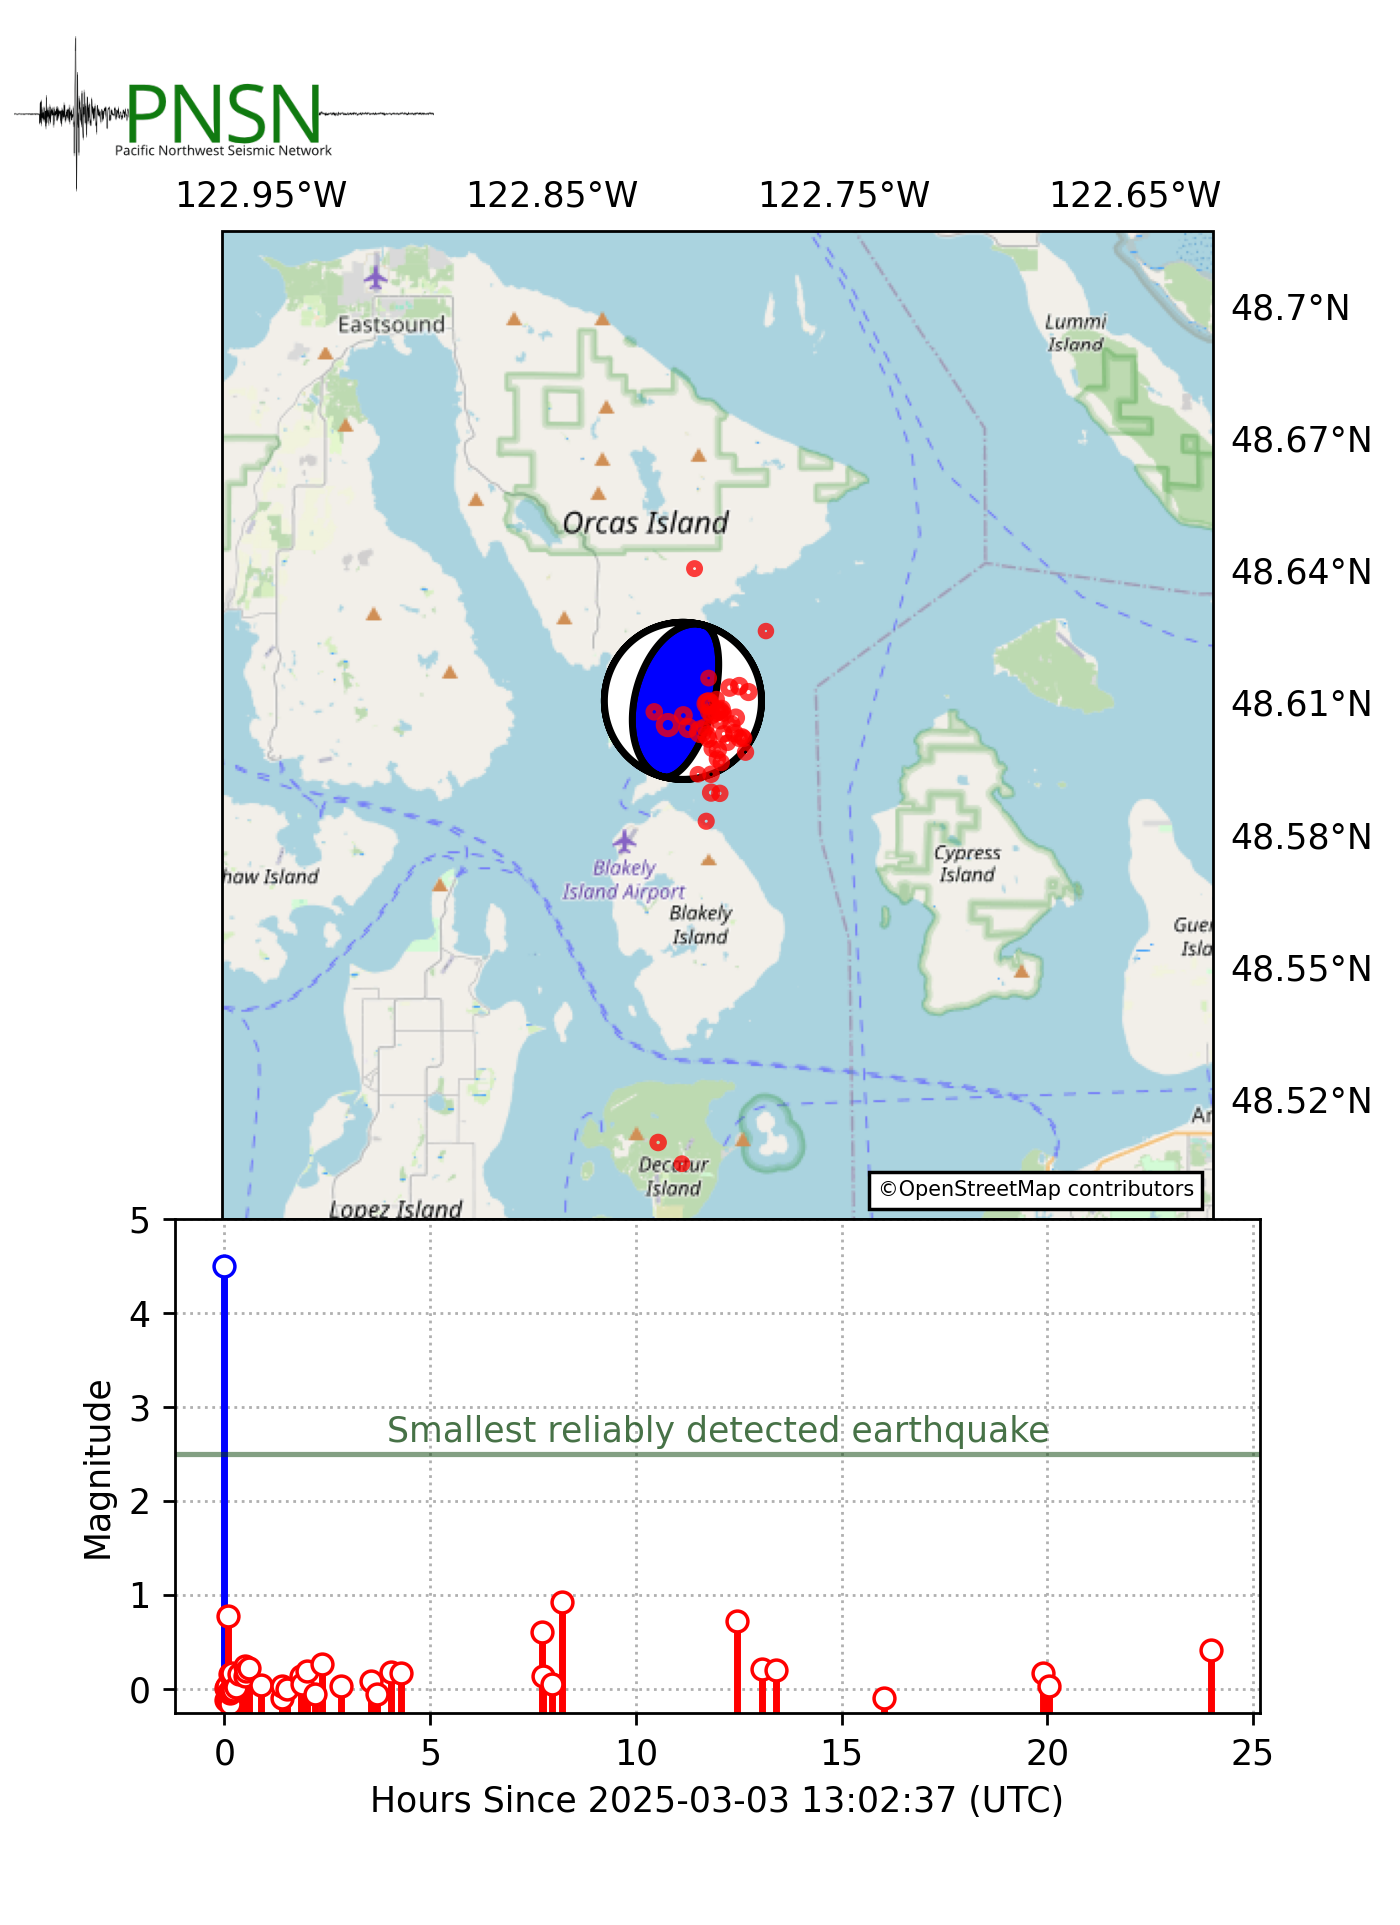
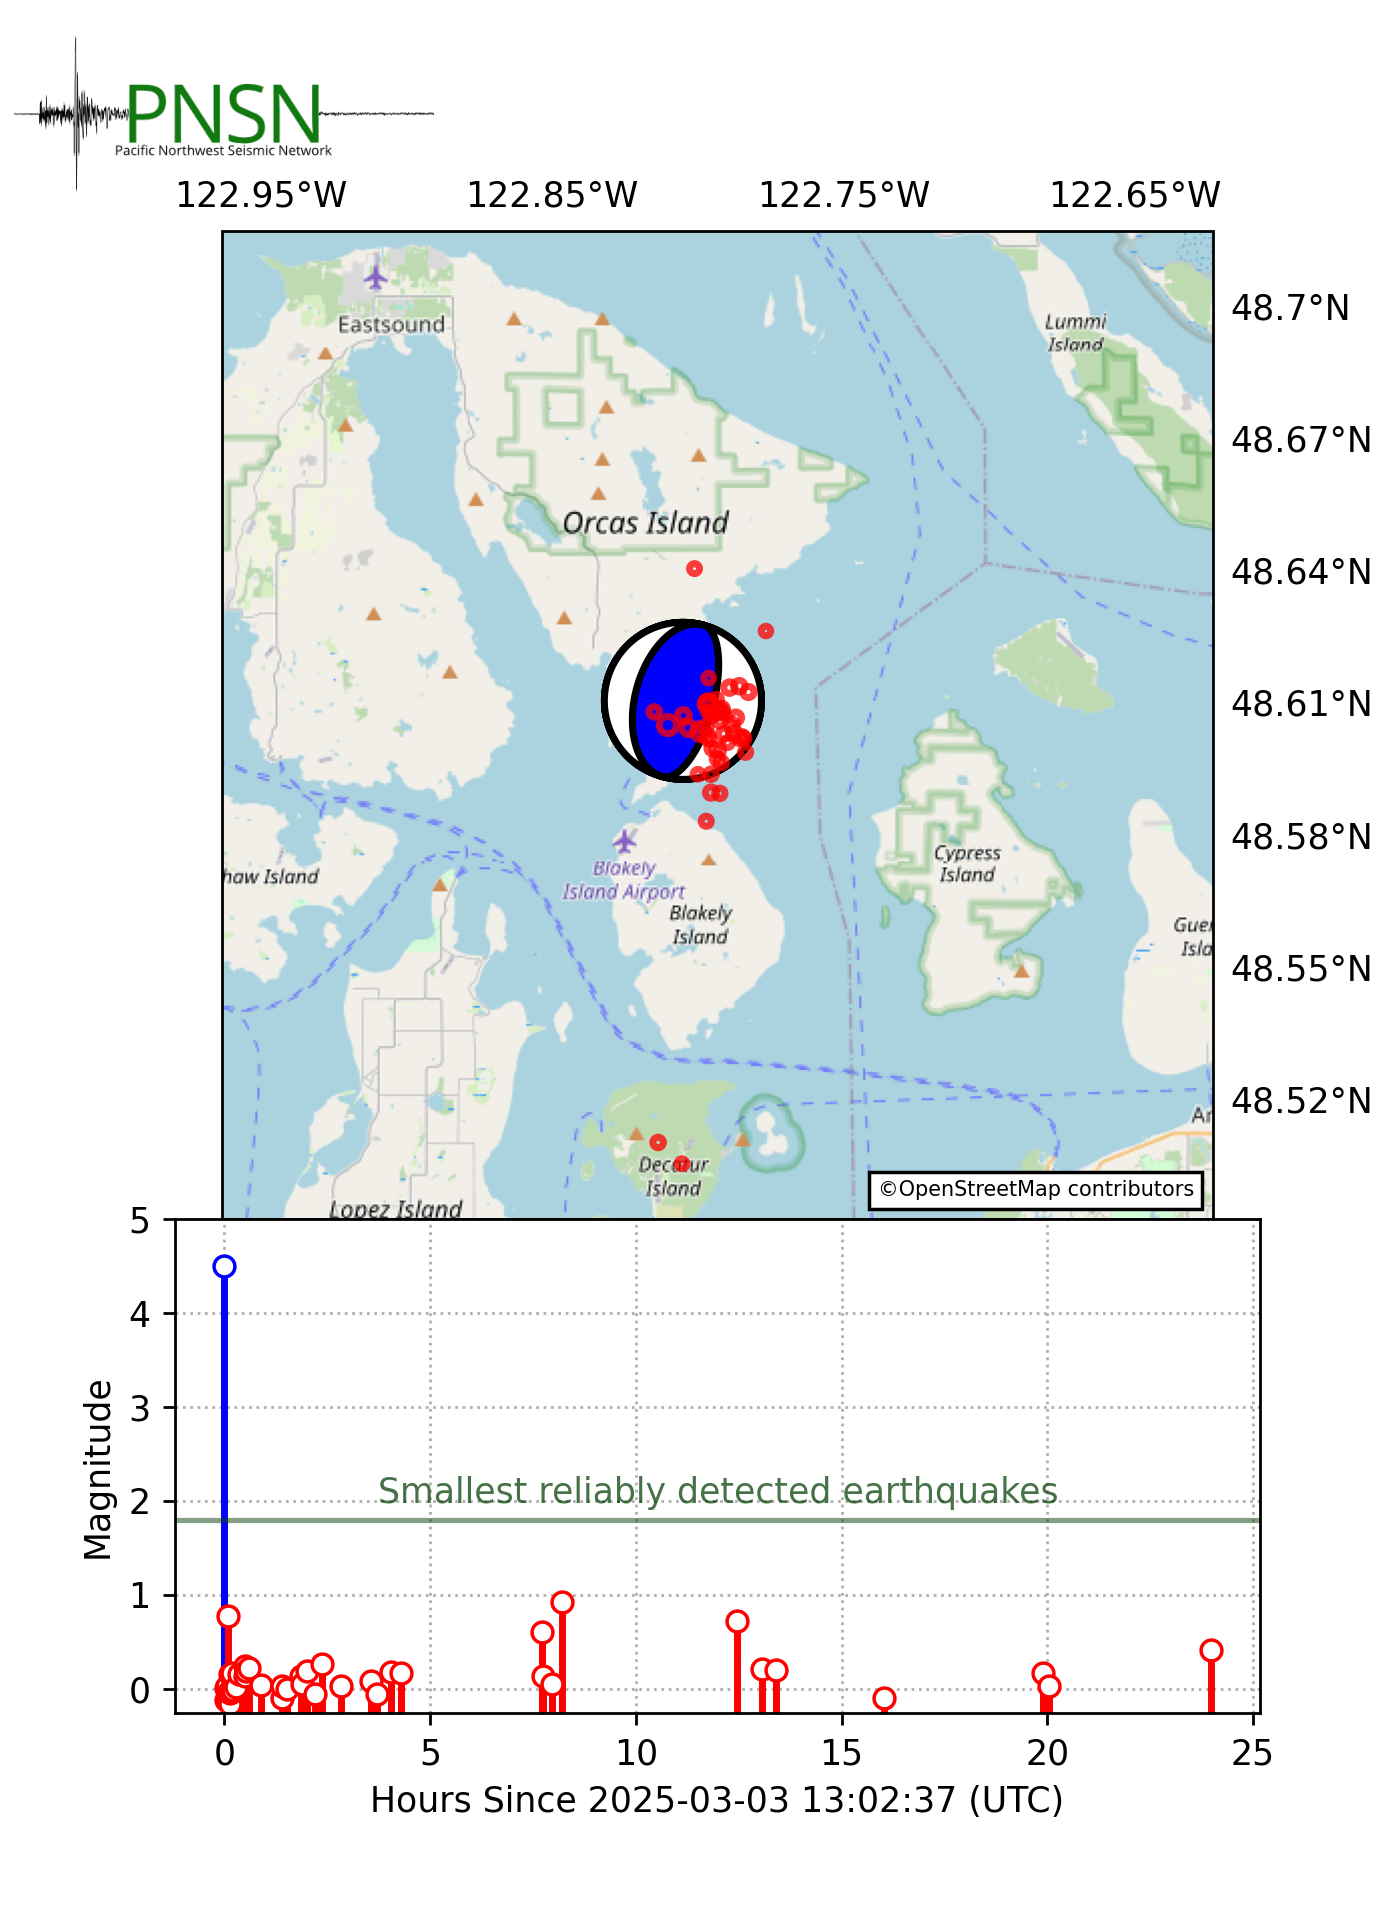
Update figure

Changed region(s): [[0.2457, 0.7169, 0.7679, 0.8104]]

diff --git a/src/plot_aftershocks.py b/src/plot_aftershocks.py
@@ -4,11 +4,10 @@
 :email: ntsteven@uw.edu
 :org: Pacific Northwest Seismic Network
 :license: GNU GPLv3
-:purpose: This script generates Figure 3 in the PNSN Seismo Blog post about
-    the M4.5 earthquake at Orcas Island on March 3rd 2025. It uses a CSV of
-    event metadata exported from Jiggle for event location, origin time, 
-    and magnitude values. The nodal plane orientation for the M4.5 earthquake
-    was manually entered.
+:purpose: This script generates the primary figure on the README.md page
+    of this repository. It uses a CSV of event metadata exported from 
+    Jiggle for event location, origin time,  and magnitude values. 
+    The nodal plane orientation for the M4.5 earthquake was manually entered.
 
     The map uses OpenStreetMap imagery for its basemap, which requires the
     included attribution to meet their terms of use. 
@@ -54,6 +53,7 @@ UTM10N = ccrs.UTM(zone=10, southern_hemisphere=False)
 WGS84 = ccrs.PlateCarree()
 ZOOM = 11
 RAD_KM = 12.5
+MIN_MAG = 1.8
 
 def get_distances(df):
     df = df.sort_values('MAG', ascending=False)
@@ -171,8 +171,8 @@ axts.set_ylabel('Magnitude')
 
 # Add completeness magnitude threshold
 xlims = axts.get_xlim()
-axts.plot(xlims, [2.5]*2, color=(9/255,67/255,9/255, 0.5))
-axts.text(12, 2.55, 'Smallest reliably detected earthquake', ha='center', va='bottom',
+axts.plot(xlims, [MIN_MAG]*2, color=(9/255,67/255,9/255, 0.5))
+axts.text(12, MIN_MAG + 0.1, 'Smallest reliably detected earthquakes', ha='center', va='bottom',
           color=(9/255, 67/255, 9/255, 0.75))
 axts.set_xlim(xlims)
 # ADD PNSN LOGO
